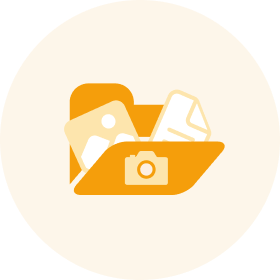
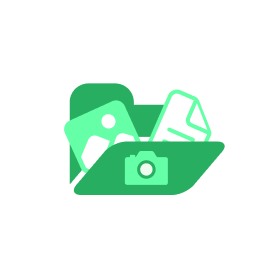
style: add bgColor to homescreen
change empty illustration color
change animation speed to 5sec

Changed region(s): [[0.2286, 0.2857, 0.8, 0.7143]]

diff --git a/screens/globalData/GlobalDataScreen.js b/screens/globalData/GlobalDataScreen.js
@@ -49,7 +49,6 @@ class GlobalDataScreen extends Component {
                 ) : (
                     <ScrollView
                         contentContainerStyle={{
-                            paddingBottom: 100,
                             paddingTop: 20
                         }}
                         style={styles.container}
@@ -61,7 +60,7 @@ class GlobalDataScreen extends Component {
                             color={`${Colors.accent}`}
                             value={targetPercentage}
                             delay={500}
-                            duration={1000}
+                            duration={5000}
                             radius={150}
                             tagline={`Next Target\n${litterTarget.nextTarget.toLocaleString()} Litter`}
                             valueSuffix="%"

diff --git a/screens/userStats/UserStatsScreen.js b/screens/userStats/UserStatsScreen.js
@@ -66,7 +66,6 @@ class UserStatsScreen extends Component {
                 />
                 <ScrollView
                     contentContainerStyle={{
-                        paddingBottom: 100,
                         paddingTop: 20
                     }}
                     style={styles.container}
@@ -78,6 +77,7 @@ class UserStatsScreen extends Component {
                         color={`${Colors.accent}`}
                         value={user.level}
                         delay={500}
+                        duration={5000}
                         radius={150}
                         tagline="Level"
                     />

diff --git a/screens/home/HomeScreen.js b/screens/home/HomeScreen.js
@@ -650,7 +650,7 @@ const styles = {
     },
     container: {
         flex: 1,
-        backgroundColor: '#fff'
+        backgroundColor: Colors.accentLight
     },
     normalText: {
         fontSize: SCREEN_HEIGHT * 0.02

diff --git a/screens/components/theme/colors.js b/screens/components/theme/colors.js
@@ -1,6 +1,6 @@
 export const Colors = {
     accent: '#27ae60',
-    accentLight: '#FFFBEB',
+    accentLight: '#dcffeb',
     text: '#050916',
     muted: '#7985a3',
     white: '#ffffff'

diff --git a/utils/Colors.js b/utils/Colors.js
@@ -13,4 +13,4 @@ const COLORS = {
     modalBackground: 'rgba(0,0,0,0.6)'
 };
 
-export default COLORS;
+// export default COLORS;
